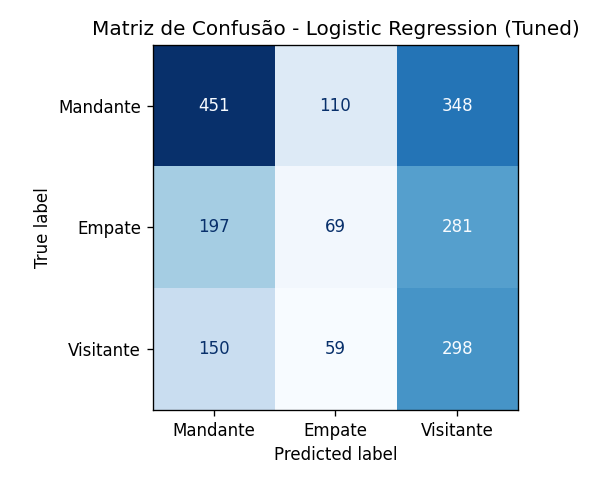
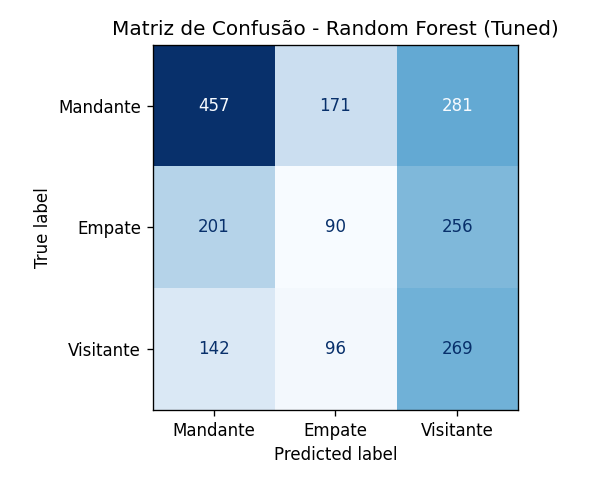
feat: Update model tuning and reporting to use F1-macro scoring

diff --git a/ml/src/main.py b/ml/src/main.py
@@ -98,17 +98,18 @@ if __name__ == "__main__":
     print_comparison(default_accs, tuned_accs, tuned_results)
 
     # Passo 9: matriz de confusão do melhor modelo tuned.
-    # Campeão escolhido por balanced accuracy (média do recall por classe), não por
-    # acurácia pura — coerente com o scoring do tuning. A acurácia pura elegeria
-    # quem ignora o empate; a balanced accuracy premia quem equilibra as 3 classes.
-    tuned_balanced = {
-        name: compute_metrics(model, X_test, y_test)["recall_macro"]
+    # Campeão escolhido por F1-macro (média do F1 por classe), não por acurácia
+    # pura — coerente com o scoring do tuning. A acurácia pura elegeria quem
+    # ignora o empate; o F1-macro premia quem equilibra precision e recall nas
+    # 3 classes, punindo tanto deixar passar quanto chutar à toa.
+    tuned_f1 = {
+        name: compute_metrics(model, X_test, y_test)["f1_macro"]
         for name, (model, _, _) in tuned_results.items()
     }
-    best_name = max(tuned_balanced, key=tuned_balanced.get)
+    best_name = max(tuned_f1, key=tuned_f1.get)
     best_model = tuned_results[best_name][0]
-    print(f"\nMelhor modelo tuned (balanced accuracy): {best_name} "
-          f"({tuned_balanced[best_name]:.3f})")
+    print(f"\nMelhor modelo tuned (F1-macro): {best_name} "
+          f"({tuned_f1[best_name]:.3f})")
 
     report_and_plot(
         best_model, X_test, y_test,

diff --git a/ml/src/models/tuning.py b/ml/src/models/tuning.py
@@ -78,7 +78,7 @@ def _numeric_features(X):
     return X.select_dtypes(include="number")
 
 
-def tune_model(name, X_train, y_train, n_splits=5, scoring="balanced_accuracy"):
+def tune_model(name, X_train, y_train, n_splits=5, scoring="f1_macro"):
     """Roda GridSearchCV para um modelo e retorna o melhor estimador.
 
     Args:
